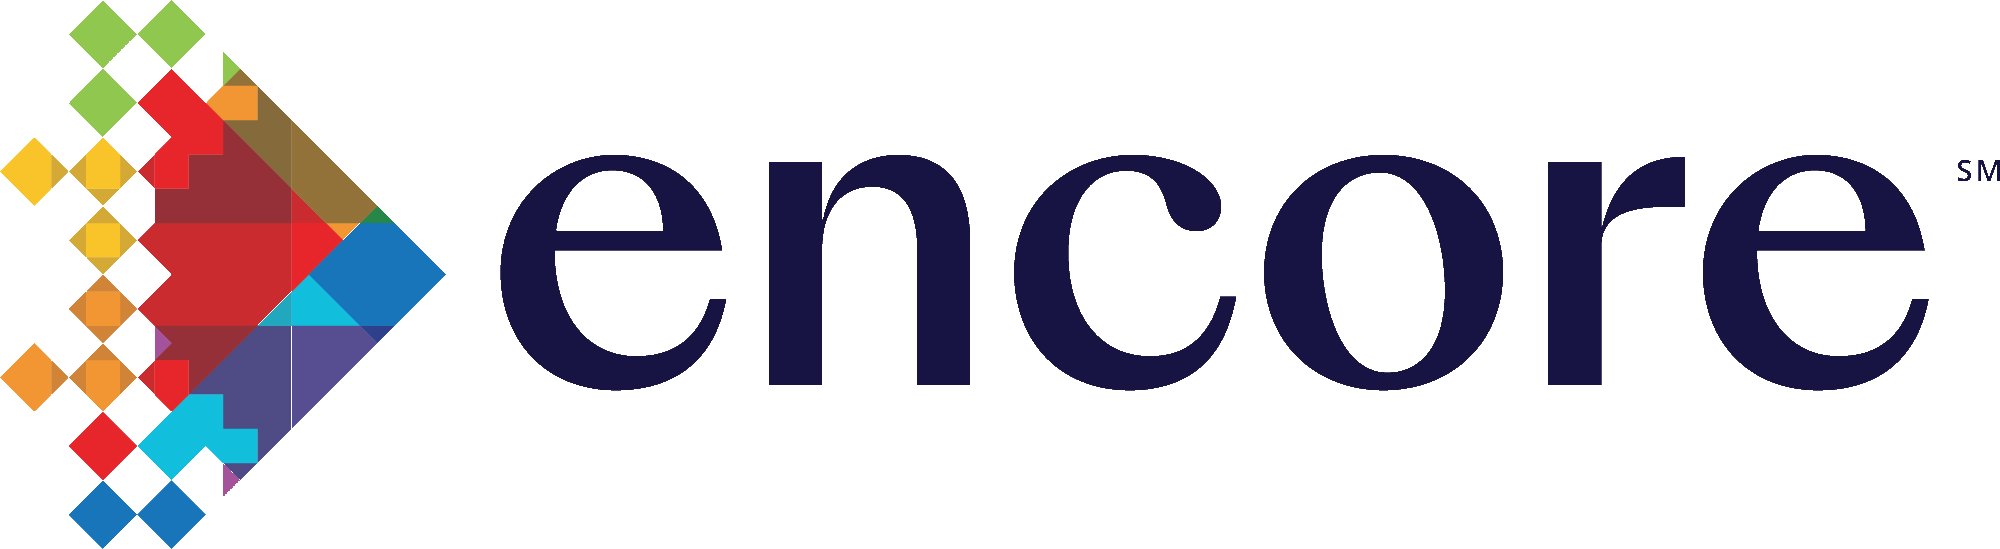
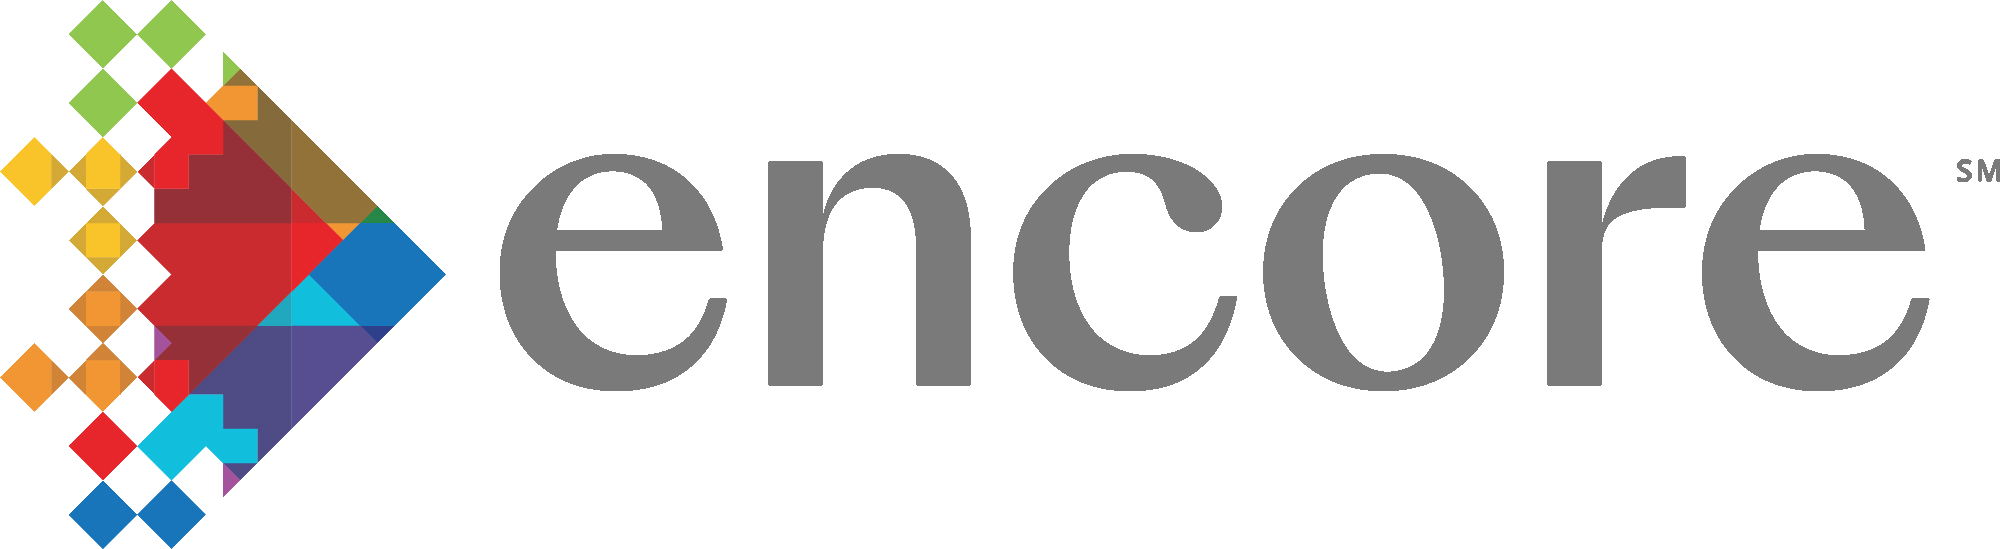
VISIBILITY CHANGES FOR SPONSORS modified:   src/assets/Raster/Gold Sponsors/Encore.png modified:   src/pages/Home.jsx

Changed region(s): [[0.248, 0.2787, 1.0, 0.7122]]

diff --git a/src/pages/Home.jsx b/src/pages/Home.jsx
@@ -29,7 +29,7 @@ const Home = () => {
                     </div>
                 </div>
 
-            <div className={'bg-gray-gradient ${styles.paddingX} ${styles.flexStart}'}>
+            <div className={'bg-black ${styles.paddingX} ${styles.flexStart}'}>
                 <div className={'$(styles.boxWidth}'}>
                     <Sponsors />
                 </div>
